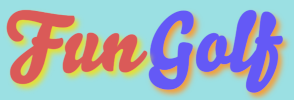
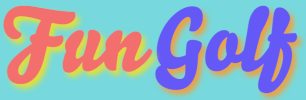
score and help setup

diff --git a/src/main.ts b/src/main.ts
@@ -1,9 +1,29 @@
+import { EventEmitter } from 'pixi.js';
 import A11yDialog from 'a11y-dialog';
 
 import './css/style.css';
-
 import { createApp } from './app';
-import { EventEmitter } from 'pixi.js';
+
+const setupScoreboard = (eventEmitter: EventEmitter) => {
+  let par = 3;
+  let score = 0;
+
+  const parContainer = document.getElementById('par-score');
+  const scoreContainer = document.getElementById('player-score');
+
+  parContainer!.innerHTML = `${par}`;
+  scoreContainer!.innerHTML = `${score}`;
+
+  eventEmitter.addListener('parSet', (arg: number) => {
+    par = arg;
+    parContainer!.innerHTML = `${par}`;
+  });
+
+  eventEmitter.addListener('scoreChanged', () => {
+    score += 1;
+    scoreContainer!.innerHTML = `${score}`;
+  });
+};
 
 const startApp = async () => {
   const dialogEl = document.getElementById('my-dialog');
@@ -15,26 +35,9 @@ const startApp = async () => {
     throw new Error('#app must be provided!');
   }
 
-  let par = 3;
-  let score = 0;
-
-  const parContainer = document.getElementById('par-score');
-  const scoreContainer = document.getElementById('player-score');
-
-  parContainer!.innerHTML = `Par: ${par}`;
-  scoreContainer!.innerHTML = `Score: ${score}`;
-
   const eventEmitter = new EventEmitter();
 
-  eventEmitter.addListener('parSet', (arg: number) => {
-    par = arg;
-    parContainer!.innerHTML = `Par: ${par}`;
-  });
-
-  eventEmitter.addListener('scoreChanged', () => {
-    score += 1;
-    scoreContainer!.innerHTML = `Score: ${score}`;
-  });
+  setupScoreboard(eventEmitter);
 
   const app = await createApp(elem, eventEmitter);
 

diff --git a/index.html b/index.html
@@ -5,11 +5,15 @@
     <title>Fun Golf</title>
     
     <meta name="viewport" content="width=device-width, initial-scale=1.0" />
-    <meta name="description" content="My Awesome App description">
-    <meta name="theme-color" content="#ffffff">
+    <meta name="description" content="Fun Golf">
+    <meta name="theme-color" content="#4d8c57">
     
     <link rel="icon" href="/golf.svg" sizes="any" type="image/svg+xml">
     <link rel="apple-touch-icon" href="/apple-touch-icon-180x180.png">
+
+    <style>
+      @import url('https://fonts.googleapis.com/css2?family=Bangers&display=swap');
+    </style>
   </head>
   <body>
     <main>
@@ -18,14 +22,20 @@
           <img src="/golf_fun.png"></img>
         </div>
         <button data-a11y-dialog-show="my-dialog" class="help-button">
-          <span>How to play 🤔 ?</span>
+          <span>Help 🤔</span>
         </button>
         </div>
       </div>
       <div id="app"></div>
       <div id="scorecard">
-        <div id="par-score">Par: </div>
-        <div id="player-score">Score: </div>
+        <div class="score">
+          <span class="score-head-1">Par:</span>
+          <span id="par-score"></span>
+        </div>
+        <div class="score">
+          <span class="score-head-2">Score:</span>
+          <span id="player-score"></span>
+        </div>
       </div>
       <div
         class="dialog-container"

diff --git a/src/css/style.css b/src/css/style.css
@@ -39,8 +39,8 @@ main {
   flex-direction: row;
   height: 120px;
   width: 80vw;
-  background-color: #9ce0e3;
-  margin-bottom: 5px;
+  background-color: #77d9dd;
+  margin-bottom: 10px;
   justify-content: center;
   align-items: center;
 }
@@ -56,16 +56,33 @@ main {
   height: 75px;
   width: 80vw;
   background-color: #515151;
-  margin-top: 5px;
+  margin-top: 10px;
   color: #fff;
 }
 
+.score {
+  font-family: 'Bangers', serif;
+  font-size: 40px;
+  font-weight: 400;
+  font-style: normal;
+  padding: 10px 20px;
+}
+
+.score-head-1 {
+  color: #f26f6f;
+}
+
+.score-head-2 {
+  color: #5affe0;
+}
+
 .logo {
-  min-width: 85%;
+  min-width: 90%;
+  padding-top: 8px;
 }
 
 .help-button {
-  width: 150px;
+  width: 75px;
   height: 30px;
 }
 

diff --git a/vite.config.ts b/vite.config.ts
@@ -12,7 +12,7 @@ export default defineConfig({
         name: 'Fun Golf',
         short_name: 'Fun Golf',
         description: 'Fun Golf',
-        theme_color: '#ffffff',
+        theme_color: '#4d8c57',
         icons: [
           {
             src: 'pwa-64x64.png',

diff --git a/src/ballHelper.ts b/src/ballHelper.ts
@@ -53,7 +53,7 @@ export class BallHelper extends Graphics {
       this.gameState.ballPositionY + GameState.ballRadius,
       33,
     );
-    this.fill({ color: '#6bae53de', alpha: 0.95 });
+    this.fill({ color: '#f4de66', alpha: 0.5 });
   }
 
   public hide() {

diff --git a/TODO.md b/TODO.md
@@ -11,12 +11,13 @@
 - hit ball action (direction + force + indicator UI) ✅
 - detect ball inside hole (over 50% overlap, velocity) ✅
 - collision detection & final stopping position / velocity dampening based on obstacle - 
-  - water
-  - sand
-  - game edges
-  - trees
-- dynamic number of obstacles and types based on screen
-- pointer adjustment
+  - water ✅
+  - sand ✅
+  - game edges ✅
+  - trees ✅
+- dynamic number of obstacles and types based on screen ✅
+- pointer adjustment ✅
+- show scores
 - win / loss / result
 - success / failure screen / animation
 - sounds for hit, hole, collision (water plop, tree / wood hit and sand thud) (https://github.com/goldfire/howler.js#documentation)
